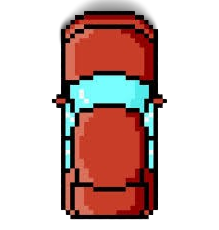
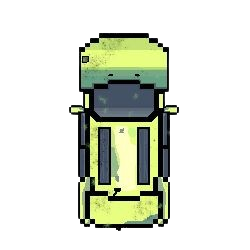
car game Update

diff --git a/car_moto.js b/car_moto.js
@@ -2,22 +2,27 @@
 const canvas = document.getElementById('myCanvas');
 const ctx = canvas.getContext('2d');
 const img = new Image();
+const enmyimg = new Image();
 const resetButt = document.getElementsByClassName('reset')
+enmyimg.src = './assists/enmycar.png';
 img.src = './assists/car.png';
-
+// console.log(enmyimg)
 // ---- Player and game settings
-let x = 800 - 100;
+let x = 600 - 100;
 let y = 190;
 let speed = 10;
 let enmySpeed = 2;
 let enmycar = [];
-let num_ofenmy = 5;
+let num_ofenmy = 8;
+let score = 0;
 //---- canavs settings 
 canvas.width = 500;
-canvas.height = 800;
+canvas.height = 700;
+canvas.style.width = '500px';
+canvas.style.height = '700px';
 
 const canHeight = canvas.height - 100;
-const canWidth = canvas.width - 95;
+const canWidth = canvas.width - 100;
 // Handle keypress for movement
 const keys = {};
 window.addEventListener('keydown', (e) => {
@@ -48,16 +53,47 @@ function movePlayer() {
         }
     }
 }
+//move with buttons 
+function left() {
+    if (y > 0) {
+        y -= speed;
+    }
+}
+function right() {
+    if (y < canWidth) {
+        y += speed;
+    }
+}
+
+function up() {
+    if (x > 0) {
+        x -= speed;
+    }
+}
+function down() {
+    if (x < canHeight) {
+        x += speed;
+    }
+}
+
+
 //-----  just code ---
 
+let scorecounter = setInterval(() => {
+    score += 1
+    console.log(score);
+}, 1000);
+
+function showscore() {
+    ctx.font = '30px lighter Courier New';
+    ctx.fillStyle = "white";
+    ctx.fillText(`${score}`, 50, 50);
+}
 // ------ just code ----- 
 // car touch game over
 function carPlayer() {
     ctx.drawImage(img, y, x, 100, 100);
     if (x < 0 || y < 0 || x > canHeight || y > canWidth) {
-        ctx.font = '30px Arial';
-        ctx.fillStyle = "white";
-        ctx.fillText('Game over!', 150, 250);
         return false;
     }
     return true;
@@ -69,7 +105,7 @@ function CarEnemy(cx, cy) {
     this.cy = cy;
 
     this.drawEnemy = () => {
-        ctx.drawImage(img, this.cy, this.cx, 100, 100);
+        ctx.drawImage(enmyimg, this.cy, this.cx, 100, 100);
     };
 
     this.moveEnemy = () => {
@@ -88,7 +124,7 @@ function checkCollision() {
         const car = enmycar[i];
         const distanceX = car.cx - x;
         const distanceY = car.cy - y;
-        if (Math.abs(distanceX) < 50 && Math.abs(distanceY) < 50) {
+        if (Math.abs(distanceX) <= 70 && Math.abs(distanceY) < 50) {
             console.log("Collision detected!");
             return true
         }
@@ -117,8 +153,8 @@ function positionCars() {
         }
     }
 }
-
 // Main animation loop
+
 function animate() {
     ctx.clearRect(0, 0, canvas.width, canvas.height);
     movePlayer();
@@ -128,10 +164,13 @@ function animate() {
         }
         requestAnimationFrame(animate);
     } else {
-        ctx.font = '30px Arial';
+        ctx.font = 'oblique bold 30px Courier New';
         ctx.fillStyle = "white";
         ctx.fillText('Game over!', canvas.height / 4, canvas.width / 2);
+        clearInterval(scorecounter)
+
     }
+    showscore();
 }
 
 // Initialize the game

diff --git a/car_moto.html b/car_moto.html
@@ -9,16 +9,23 @@
 </head>
 
 <body>
-    <canvas id="myCanvas"></canvas>
+    <!-- <input class="toggle" type="range" name="" id=""> -->
+    <button class="toggle-buttons"> </button>
+    <audio src="" class="myaudio">
+        <source src="boop.mp3" type="audio/mpeg">
+    </audio>
+    <div class="container">
+        <canvas id="myCanvas"></canvas>
+    </div>
     <div class="buttons">
         <button id="reset" class="reset" onclick="reset()">reset</button>
         <div class="buttonControls">
-            <button onclick="reset()">&#8657;</button>
-            <div>
-                <button onclick="left()">&#8656;</button>
-                <button onclick="reset()">&#8658;</button>
+            <button class="upclk clklook" onclick="reset()">&#8657;</button>
+            <div class="leftright">
+                <button class="clklook leftclk" onclick="left()">&#8656;</button>
+                <button class="clklook rightclk" onclick="right()">&#8658;</button>
             </div>
-            <button onclick="down()">&#8659;</button>
+            <button class="clklook downclk" onclick="down()">&#8659;</button>
         </div>
     </div>
 </body>

diff --git a/car_moto.css b/car_moto.css
@@ -5,19 +5,20 @@
 .reset {
     position: absolute;
     top: 50%;
-    display: block;
+    display: none;
     border: 1px solid transparent;
     border-radius: 100%;
     padding: 30px;
     background-color: transparent;
 
-    &:hover {
-        background-color: rgba(255, 255, 255, 0.2);
-        /* Semi-transparent background */
-        border: 2px solid rgba(255, 255, 255, 0.2);
-        /* Semi-transparent border */
+}
 
-    }
+.reset:hover {
+    background-color: rgba(255, 255, 255, 0.2);
+    /* Semi-transparent background */
+    border: 2px solid rgba(255, 255, 255, 0.2);
+    /* Semi-transparent border */
+
 }
 
 body {
@@ -40,15 +41,23 @@ button {
 }
 
 canvas {
+    width: 100%;
+    height: auto;
+    max-width: 500px;
+    margin-top: 100px;
+    border-radius: 20px;
     border: 1px solid transparent;
     background-image: url('./assists/Road.png');
+    background-size: auto;
     animation: motion_road var(--speed) linear infinite;
+    box-shadow: 0px -1px 20px 8px rgb(255 255 255 / 10%);
 }
 
 .buttons {
-    /* display: flex; */
+    display: flex;
     display: none;
 }
+
 
 @keyframes motion_road {
     from {
